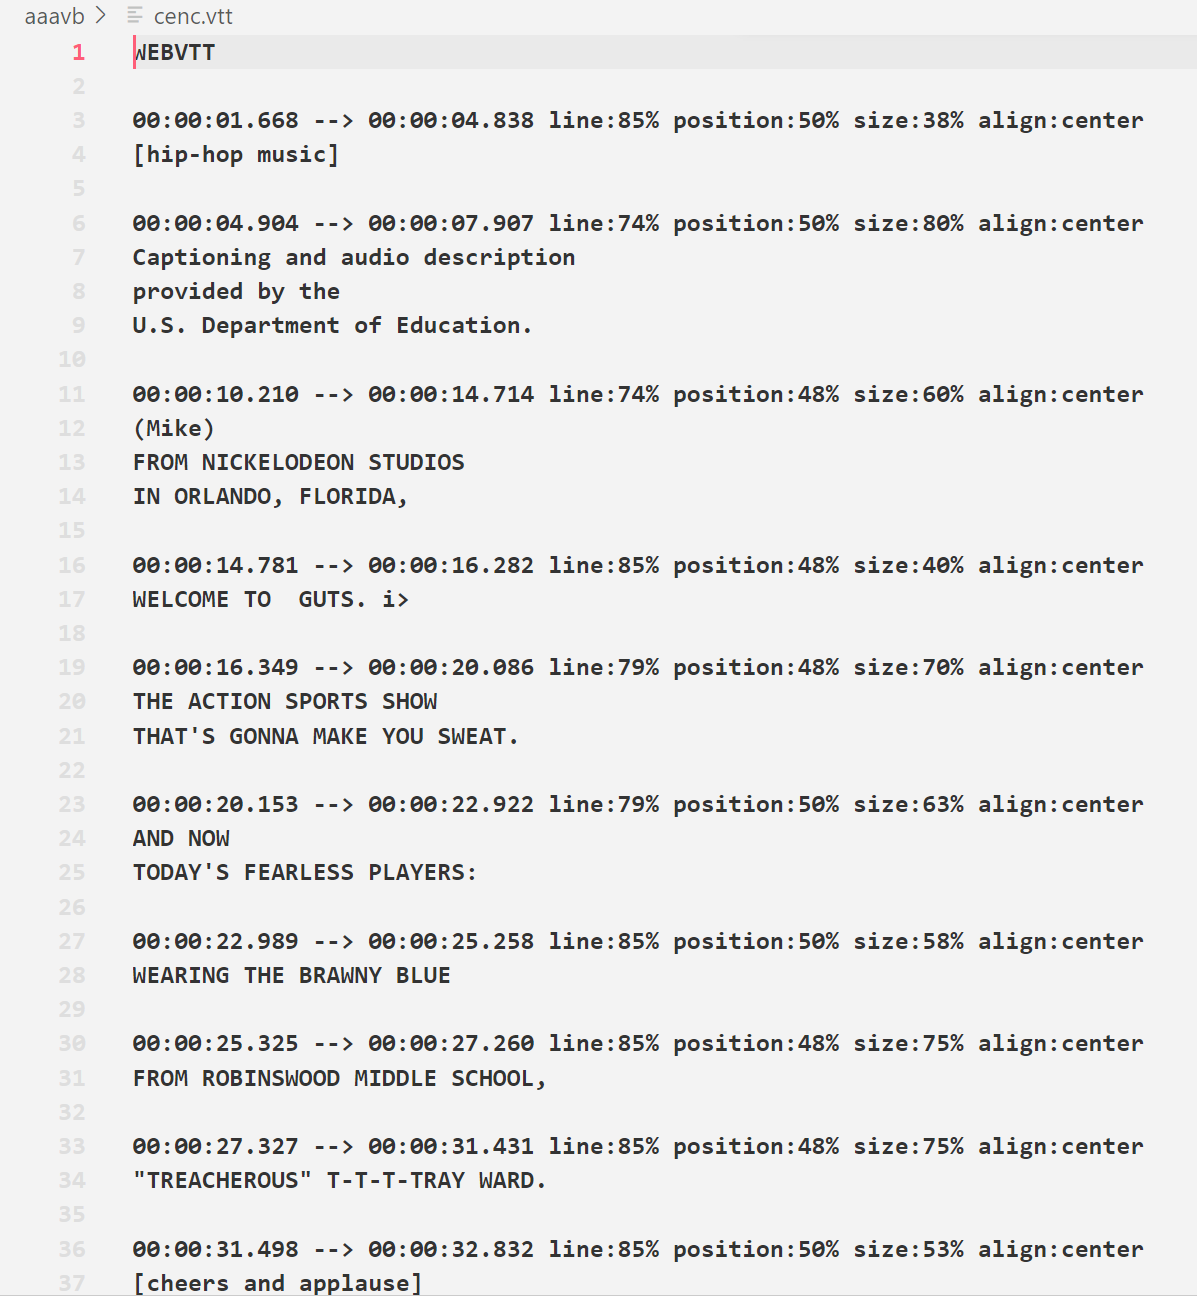
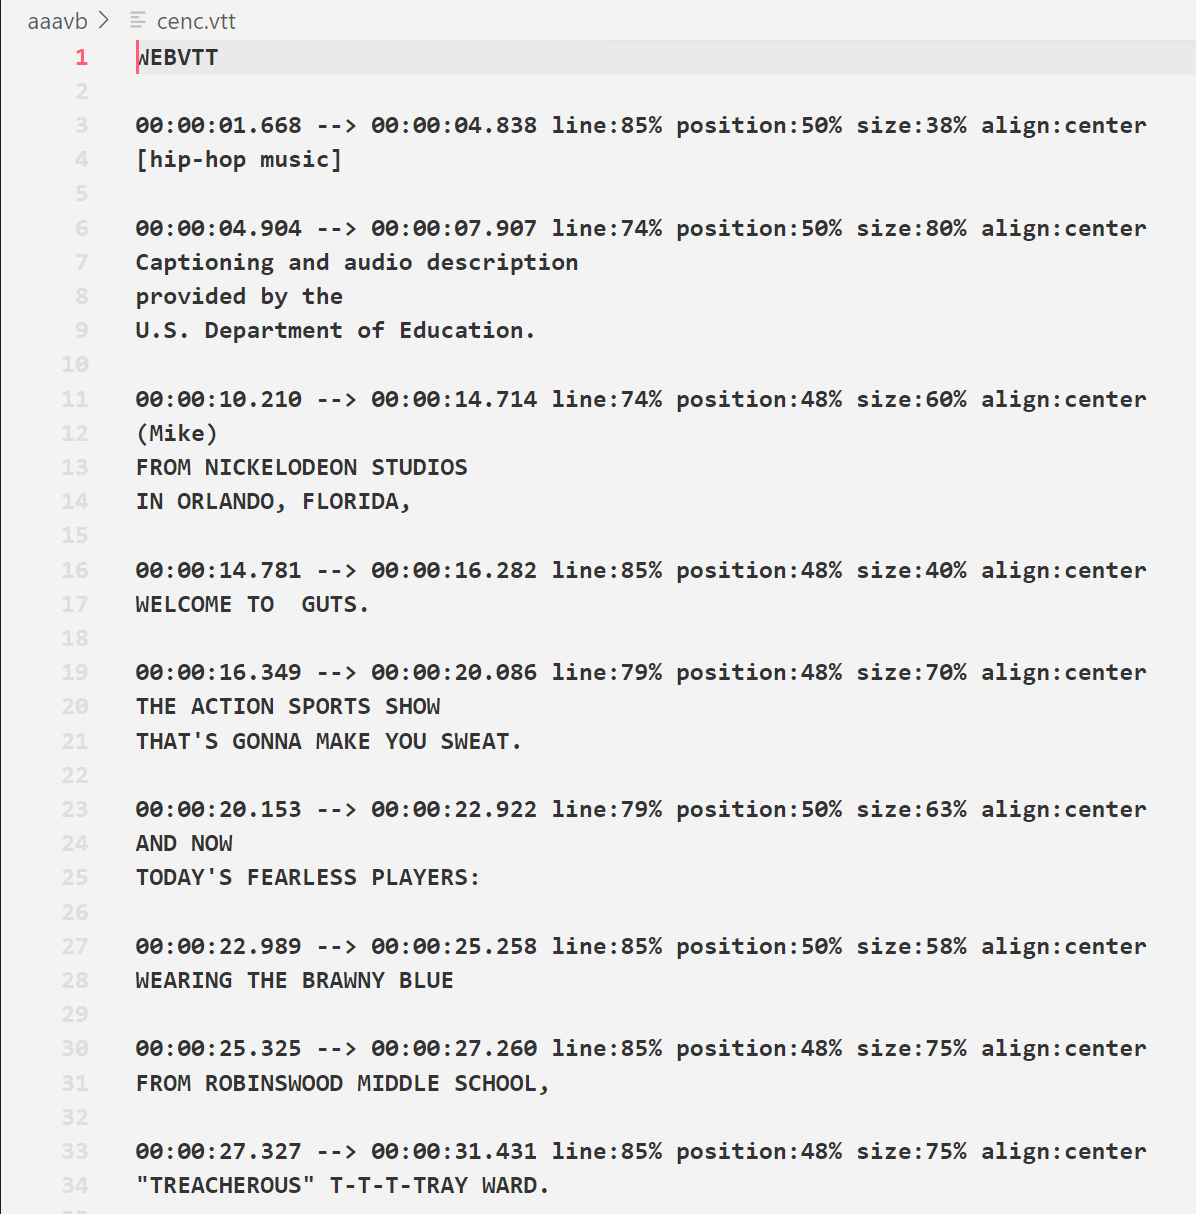
bug fix for handle </i>

Changed region(s): [[0.0928, 0.061, 0.959, 1.0], [0.0, 0.0, 0.2166, 0.061]]

diff --git a/pyshaka/text/VttTextParser.py b/pyshaka/text/VttTextParser.py
@@ -34,6 +34,8 @@ class VttTextParser:
                     rootCue.payload = payload
                     return
             for childNode in childNodes:
+                if childNode.nodeValue and childNode.nodeValue.startswith('i>'):
+                    continue
                 VttTextParser.generateCueFromElement_(childNode, rootCue, cues, styles)
             rootCue.nestedCues = cues
         else:
